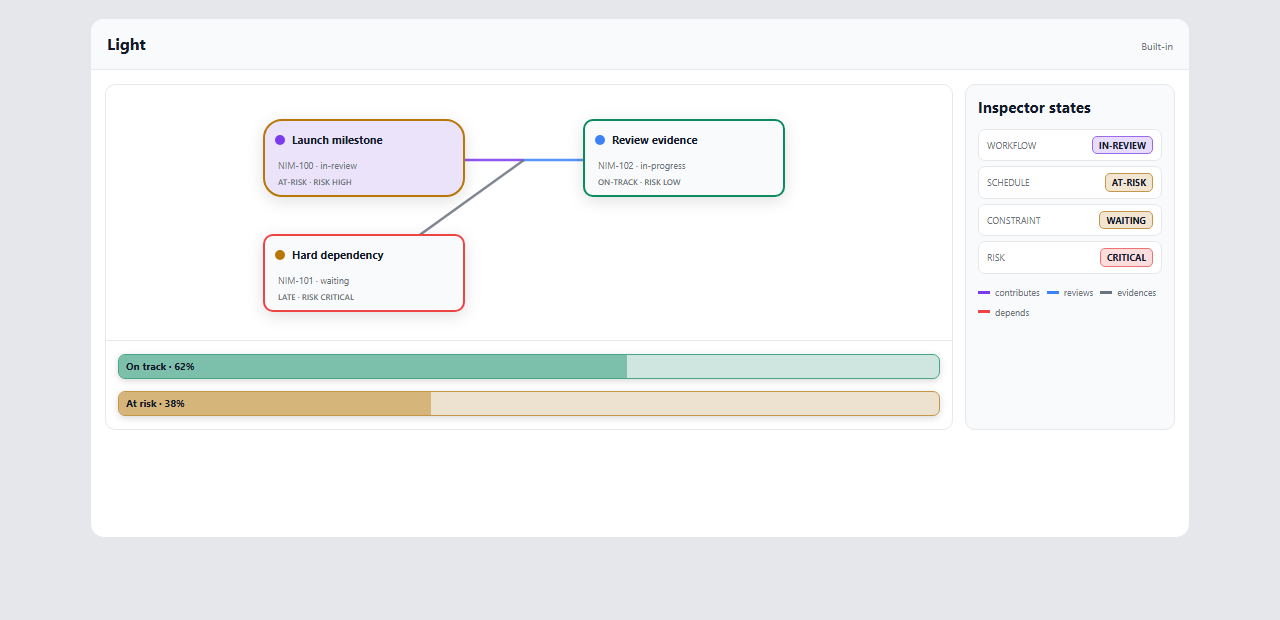
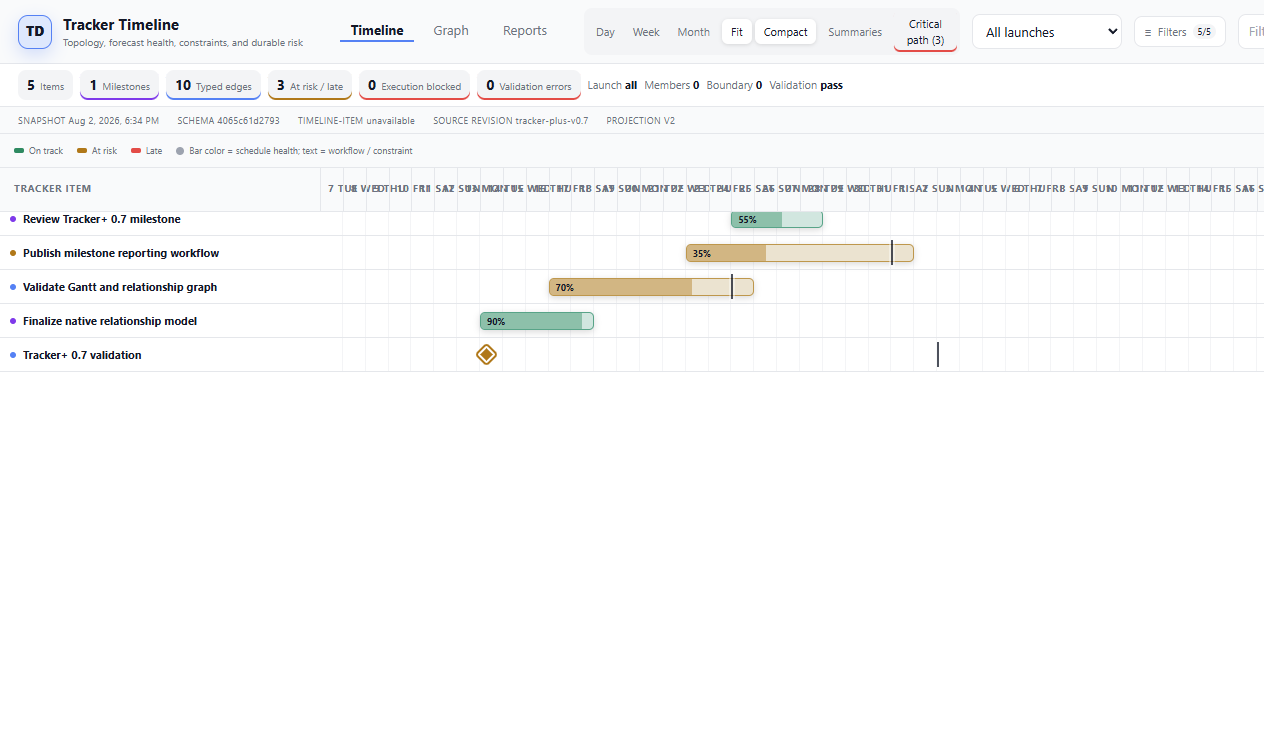
docs: refresh Tracker+ 0.7 viewer imagery
- capture the current graph and light/dark timeline views
- update screenshot descriptions for the current controls
- advance bundled sample projection provenance to 0.7

diff --git a/README.md b/README.md
@@ -14,11 +14,11 @@ upgrade in place despite the broader Tracker+ name.
 
 ## Screenshots
 
-![Tracker+ relationship graph, state inspector, and timeline bars across Light, Dark, Crystal Dark, and Midnight Orchid](docs/screenshots/tracker-plus-theme-audit.png)
+![Tracker+ current relationship graph with typed-edge legend, launch filter, validation summary, and workflow-aware nodes](docs/screenshots/tracker-plus-theme-audit.png)
 
 <p align="center">
-  <img src="docs/screenshots/tracker-plus-light.png" width="49%" alt="Tracker+ in the Nimbalyst Light theme">
-  <img src="docs/screenshots/tracker-plus-midnight-orchid.png" width="49%" alt="Tracker+ in the Midnight Orchid extension theme">
+  <img src="docs/screenshots/tracker-plus-light.png" width="49%" alt="Tracker+ 0.7 timeline viewer in the Nimbalyst Light theme">
+  <img src="docs/screenshots/tracker-plus-midnight-orchid.png" width="49%" alt="Tracker+ 0.7 timeline viewer in a Nimbalyst dark theme">
 </p>
 
 ## What's new in 0.7.0

diff --git a/CHANGELOG.md b/CHANGELOG.md
@@ -7,6 +7,8 @@ All notable changes to this project are documented in this file.
 - Add a copy-ready external query catalog covering predicate, traversal, and
   composed templates, and link it from installation, agent, and release
   documentation.
+- Refresh the README graph and light/dark timeline screenshots from the current
+  0.7 viewer, and advance the bundled sample projections to 0.7 provenance.
 
 ## 0.7.0 - 2026-08-02
 
